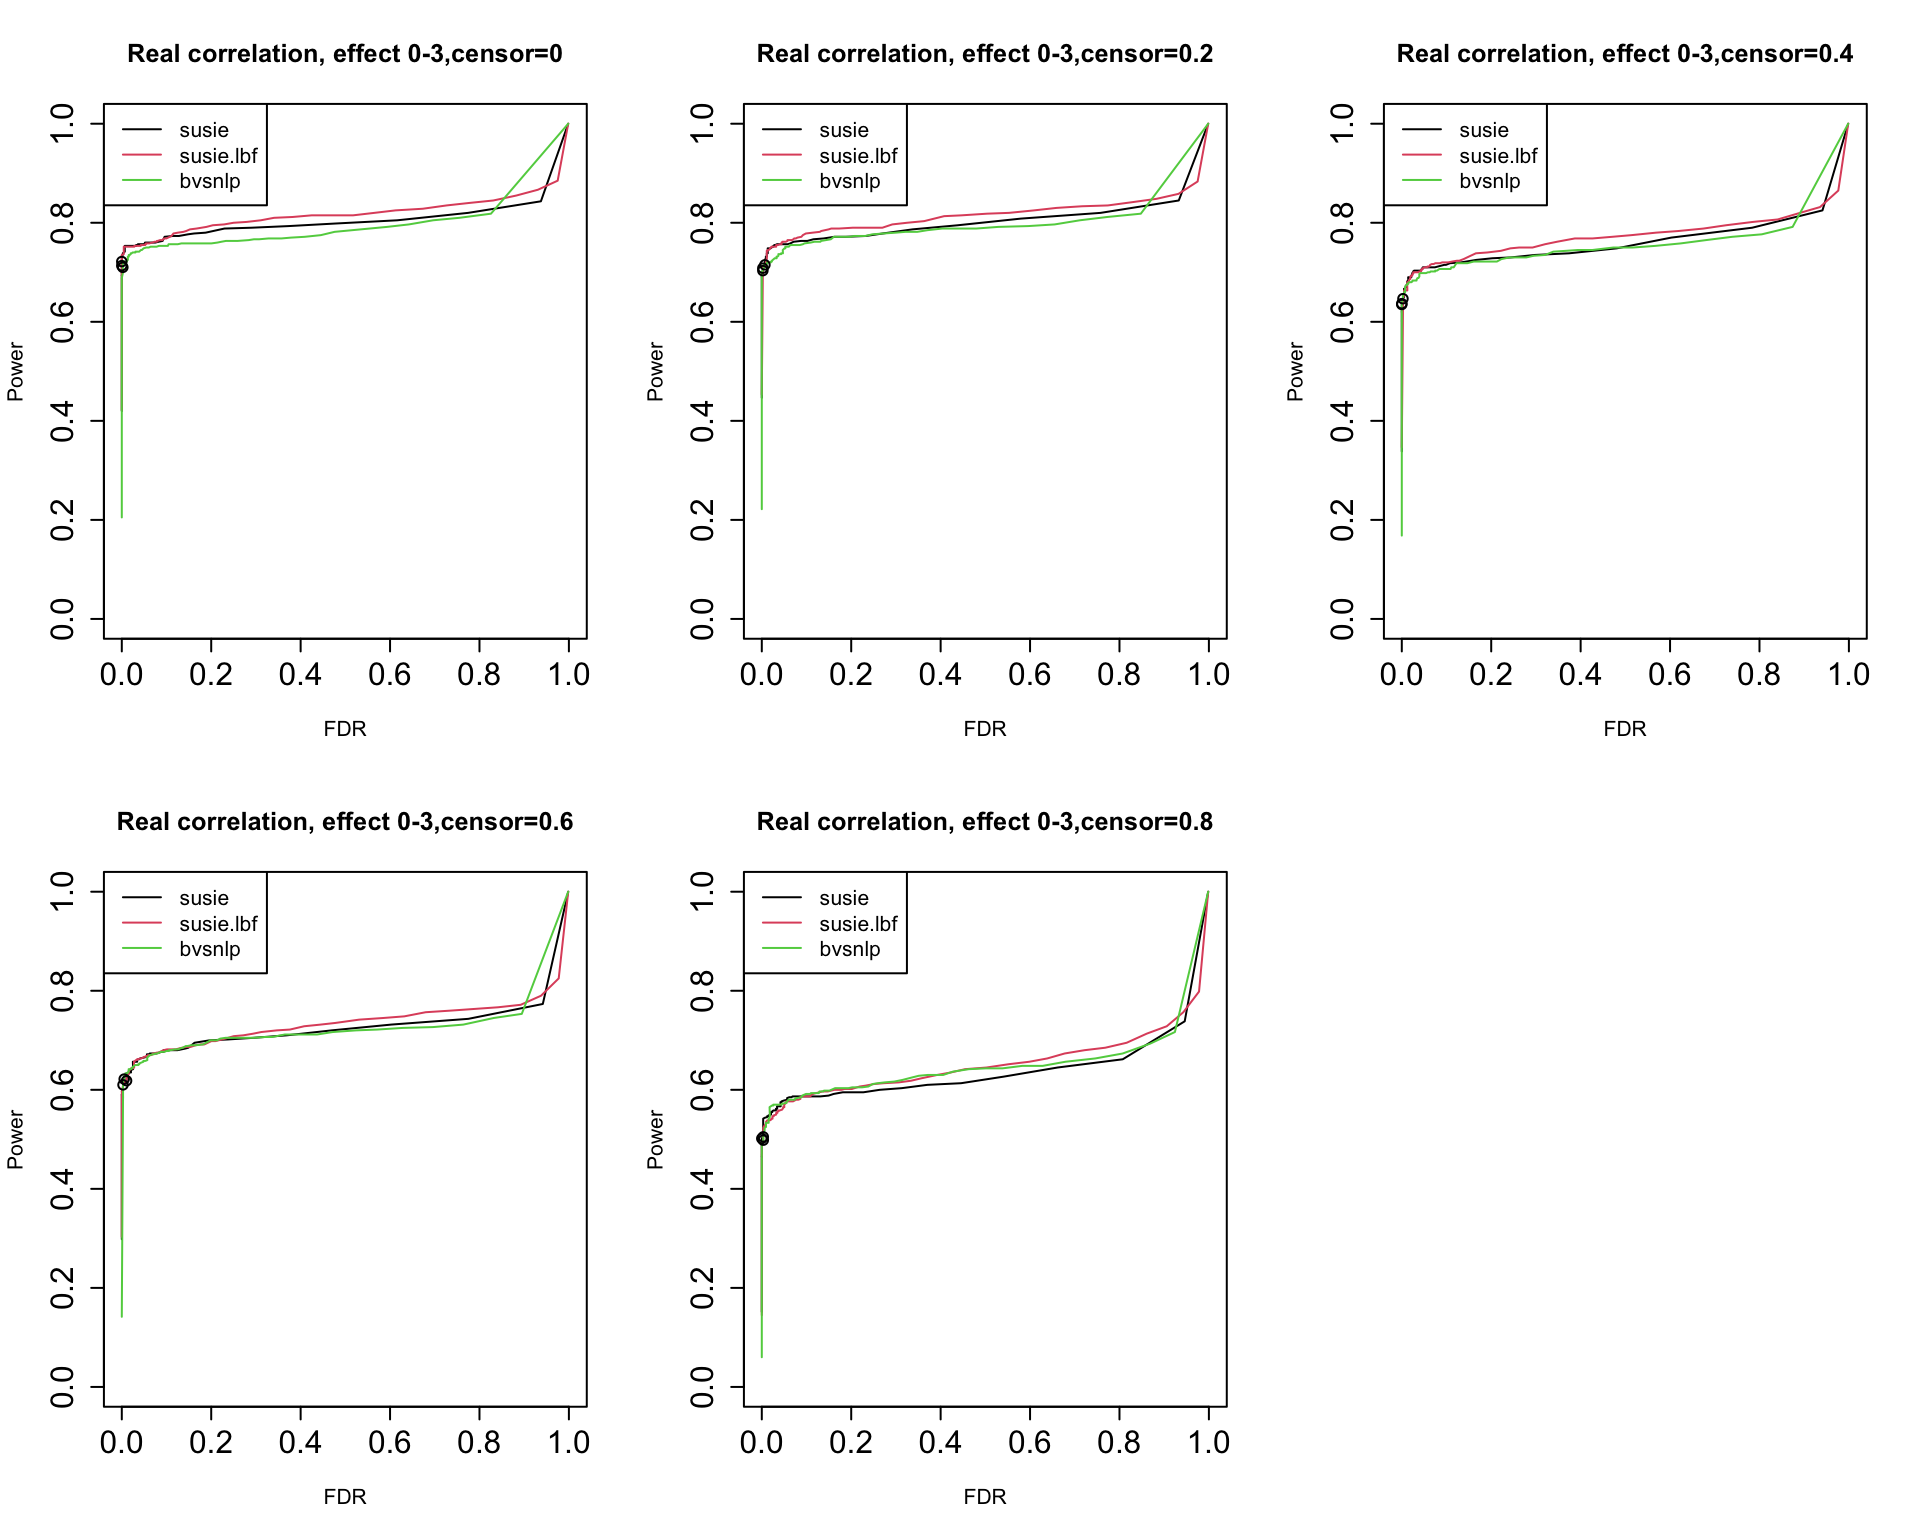
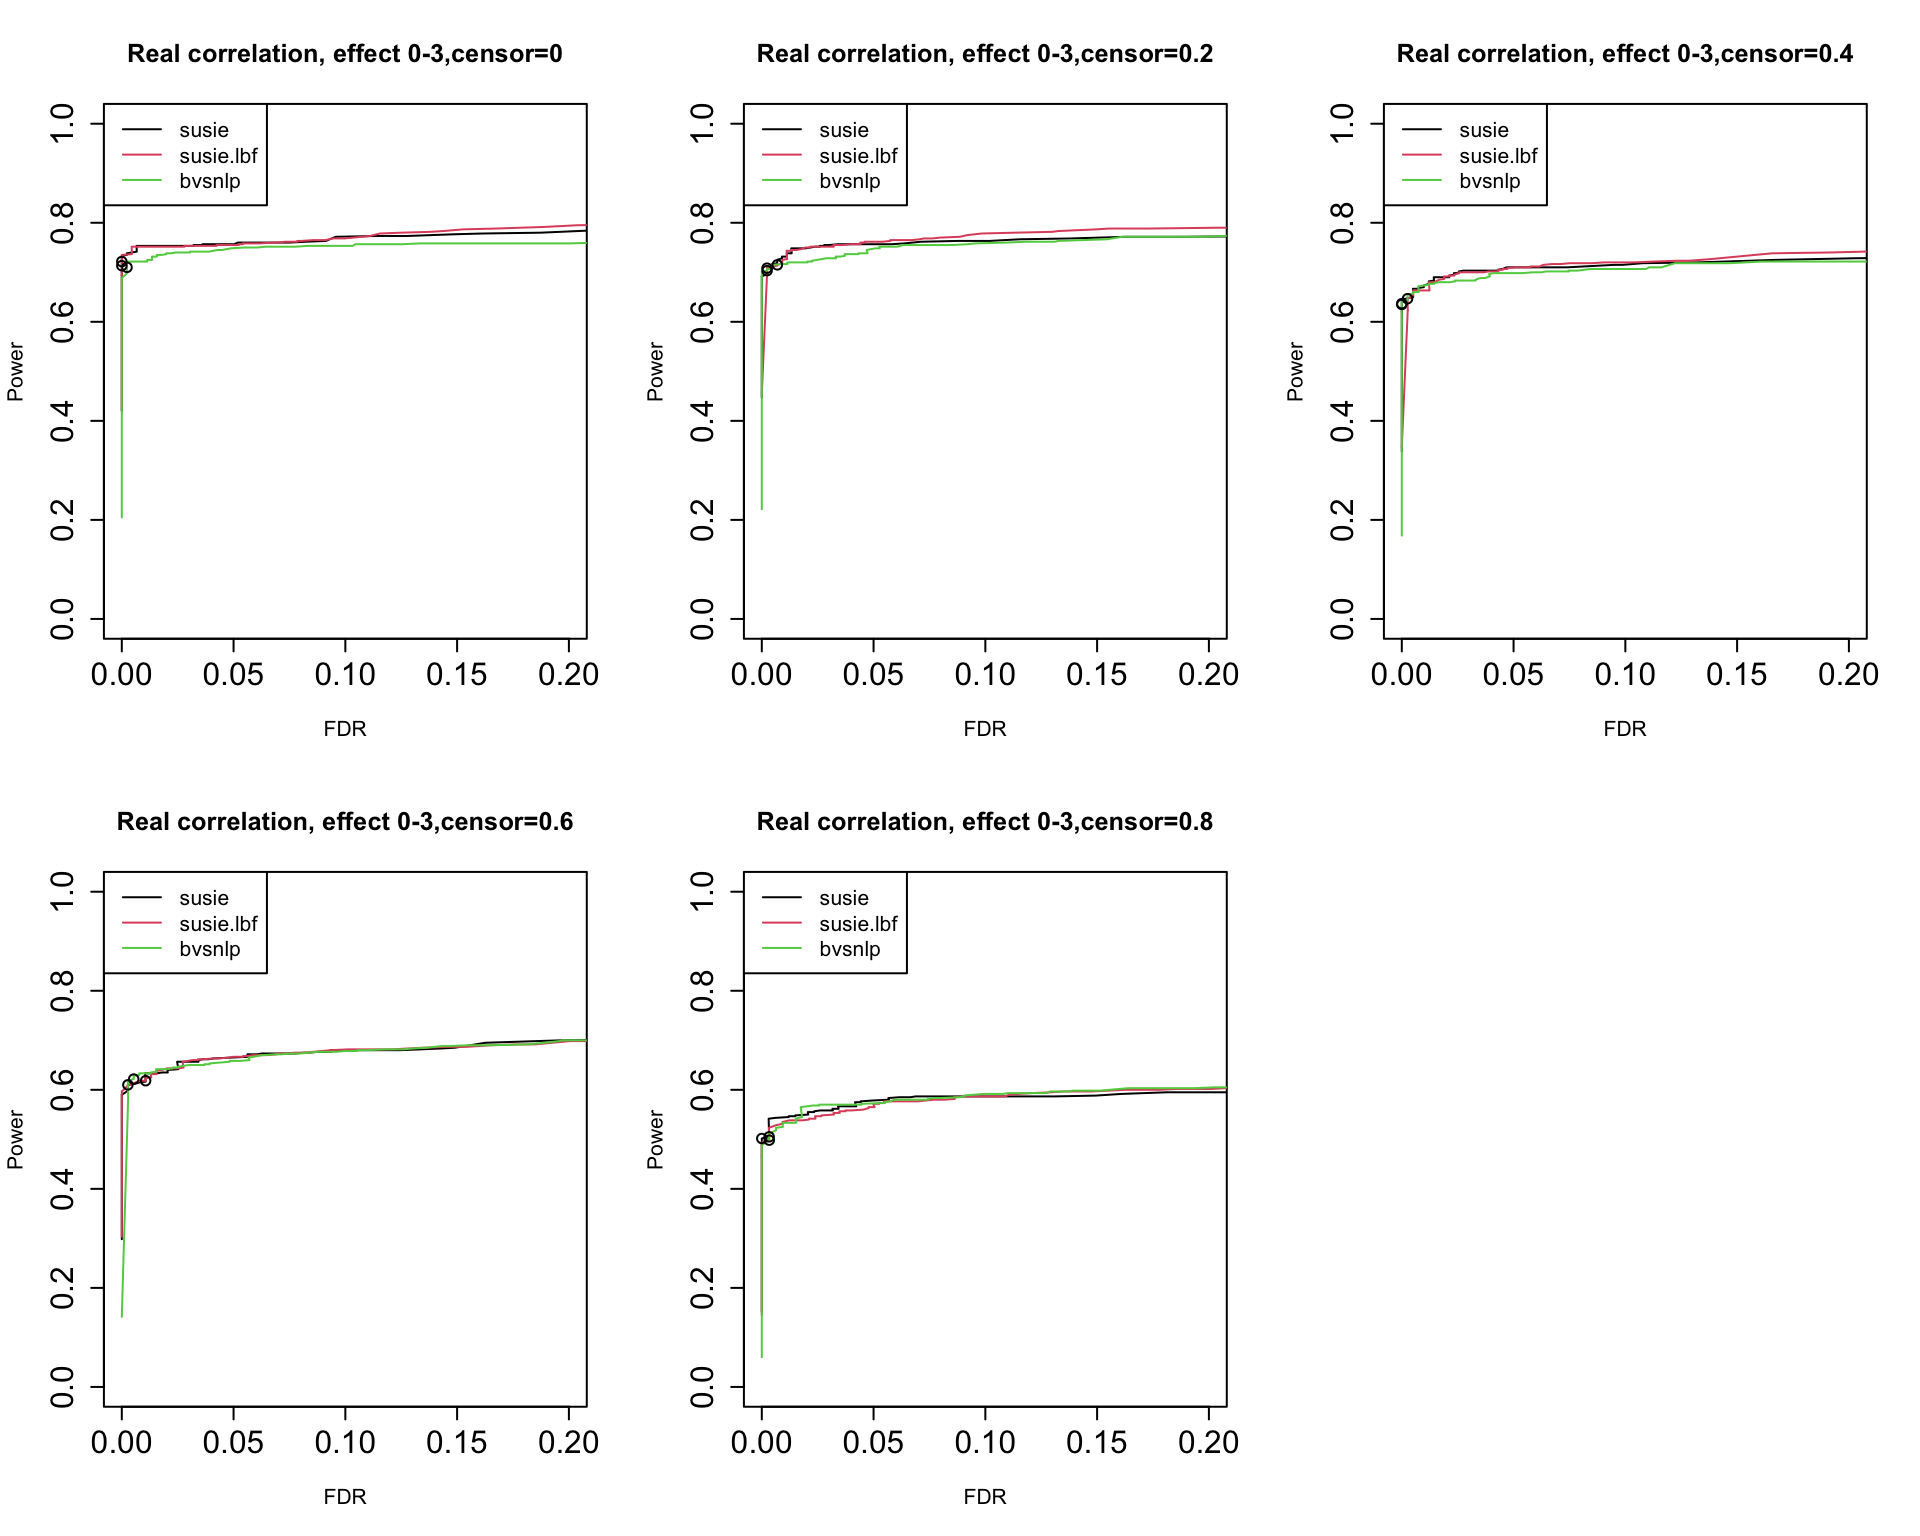
Build site.

diff --git a/docs/susie.convergence.html b/docs/susie.convergence.html
@@ -476,16 +476,16 @@ This reproducible <a href="http://rmarkdown.rstudio.com">R Markdown</a> analysis
 <div class="panel panel-default">
 <div class="panel-heading">
 <p class="panel-title">
-<a data-toggle="collapse" data-parent="#workflowr-checks" href="#strongRepositoryversionstrongahrefhttpsgithubcomyunqiyang0215survivalsusietree894d50d99bc32a03f0de8db53031bacf41d1b074targetblank894d50da"> <span class="glyphicon glyphicon-ok text-success" aria-hidden="true"></span> <strong>Repository version:</strong> <a href="https://github.com/yunqiyang0215/survival-susie/tree/894d50d99bc32a03f0de8db53031bacf41d1b074" target="_blank">894d50d</a> </a>
+<a data-toggle="collapse" data-parent="#workflowr-checks" href="#strongRepositoryversionstrongahrefhttpsgithubcomyunqiyang0215survivalsusietree6d574a9822f0003168592e6cbc67d39c2b5bc9e4targetblank6d574a9a"> <span class="glyphicon glyphicon-ok text-success" aria-hidden="true"></span> <strong>Repository version:</strong> <a href="https://github.com/yunqiyang0215/survival-susie/tree/6d574a9822f0003168592e6cbc67d39c2b5bc9e4" target="_blank">6d574a9</a> </a>
 </p>
 </div>
[2 lines of base64/hex data omitted]
 <div class="panel-body">
 <p>
 Great! You are using Git for version control. Tracking code development and connecting the code version to the results is critical for reproducibility.
 </p>
 <p>
-The results in this page were generated with repository version <a href="https://github.com/yunqiyang0215/survival-susie/tree/894d50d99bc32a03f0de8db53031bacf41d1b074" target="_blank">894d50d</a>. See the <em>Past versions</em> tab to see a history of the changes made to the R Markdown and HTML files.
+The results in this page were generated with repository version <a href="https://github.com/yunqiyang0215/survival-susie/tree/6d574a9822f0003168592e6cbc67d39c2b5bc9e4" target="_blank">6d574a9</a>. See the <em>Past versions</em> tab to see a history of the changes made to the R Markdown and HTML files.
 </p>
 <p>
 Note that you need to be careful to ensure that all relevant files for the analysis have been committed to Git prior to generating the results (you can use <code>wflow_publish</code> or <code>wflow_git_commit</code>). workflowr only checks the R Markdown file, but you know if there are other scripts or data files that it depends on. Below is the status of the Git repository when the results were generated:
@@ -539,6 +539,40 @@ Message
 </tr>
 </thead>
 <tbody>
+<tr>
+<td>
+Rmd
+</td>
+<td>
+<a href="https://github.com/yunqiyang0215/survival-susie/blob/6d574a9822f0003168592e6cbc67d39c2b5bc9e4/analysis/susie.convergence.Rmd" target="_blank">6d574a9</a>
+</td>
+<td>
+yunqiyang0215
+</td>
+<td>
+2023-05-29
+</td>
+<td>
+wflow_publish("analysis/susie.convergence.Rmd")
+</td>
+</tr>
+<tr>
+<td>
+html
+</td>
+<td>
+<a href="https://rawcdn.githack.com/yunqiyang0215/survival-susie/8b1b149090eee8586baa67ea4655a5eca51dd348/docs/susie.convergence.html" target="_blank">8b1b149</a>
+</td>
+<td>
+yunqiyang0215
+</td>
+<td>
+2023-05-29
+</td>
+<td>
+Build site.
+</td>
+</tr>
 <tr>
 <td>
 html
@@ -691,6 +725,17 @@ Date
 <tbody>
 <tr>
 <td>
+<a href="https://github.com/yunqiyang0215/survival-susie/blob/8b1b149090eee8586baa67ea4655a5eca51dd348/docs/figure/susie.convergence.Rmd/unnamed-chunk-3-1.png" target="_blank">8b1b149</a>
+</td>
+<td>
+yunqiyang0215
+</td>
+<td>
+2023-05-29
+</td>
+</tr>
+<tr>
+<td>
 <a href="https://github.com/yunqiyang0215/survival-susie/blob/ad2c57c12c15f39c1edb6f4a215220c86e6788fa/docs/figure/susie.convergence.Rmd/unnamed-chunk-3-1.png" target="_blank">ad2c57c</a>
 </td>
 <td>
@@ -759,6 +804,17 @@ Date
 <tbody>
 <tr>
 <td>
+<a href="https://github.com/yunqiyang0215/survival-susie/blob/8b1b149090eee8586baa67ea4655a5eca51dd348/docs/figure/susie.convergence.Rmd/unnamed-chunk-4-1.png" target="_blank">8b1b149</a>
+</td>
+<td>
+yunqiyang0215
+</td>
+<td>
+2023-05-29
+</td>
+</tr>
+<tr>
+<td>
 <a href="https://github.com/yunqiyang0215/survival-susie/blob/ad2c57c12c15f39c1edb6f4a215220c86e6788fa/docs/figure/susie.convergence.Rmd/unnamed-chunk-4-1.png" target="_blank">ad2c57c</a>
 </td>
 <td>
@@ -792,7 +848,7 @@ for (i in 1:5){
   res.susie.lbf = calculate_tpr_vs_fdr(pip.susie.lbf, is_effect, ts)
   res.bvsnlp = calculate_tpr_vs_fdr(pip.bvsnlp, is_effect, ts)
   
-  plot(res.susie[,2], res.susie[,1], type = &quot;l&quot;, xlim = c(0,1), ylim = c(0, 1), xlab = &quot;FDR&quot;, ylab = &quot;Power&quot;,
+  plot(res.susie[,2], res.susie[,1], type = &quot;l&quot;, xlim = c(0, 0.2), ylim = c(0, 1), xlab = &quot;FDR&quot;, ylab = &quot;Power&quot;,
        main = paste0(&quot;Real correlation, effect 0-3&quot;, &quot;,censor=&quot;, censor_lvl[i]))
   lines(res.susie.lbf[,2], res.susie.lbf[,1], type = &quot;l&quot;, col = 2)
   lines(res.bvsnlp[,2], res.bvsnlp[,1], type = &quot;l&quot;, col = 3)
@@ -825,6 +881,17 @@ Date
 </tr>
 </thead>
 <tbody>
+<tr>
+<td>
+<a href="https://github.com/yunqiyang0215/survival-susie/blob/8b1b149090eee8586baa67ea4655a5eca51dd348/docs/figure/susie.convergence.Rmd/unnamed-chunk-5-1.png" target="_blank">8b1b149</a>
+</td>
+<td>
+yunqiyang0215
+</td>
+<td>
+2023-05-29
+</td>
+</tr>
 <tr>
 <td>
 <a href="https://github.com/yunqiyang0215/survival-susie/blob/ad2c57c12c15f39c1edb6f4a215220c86e6788fa/docs/figure/susie.convergence.Rmd/unnamed-chunk-5-1.png" target="_blank">ad2c57c</a>
